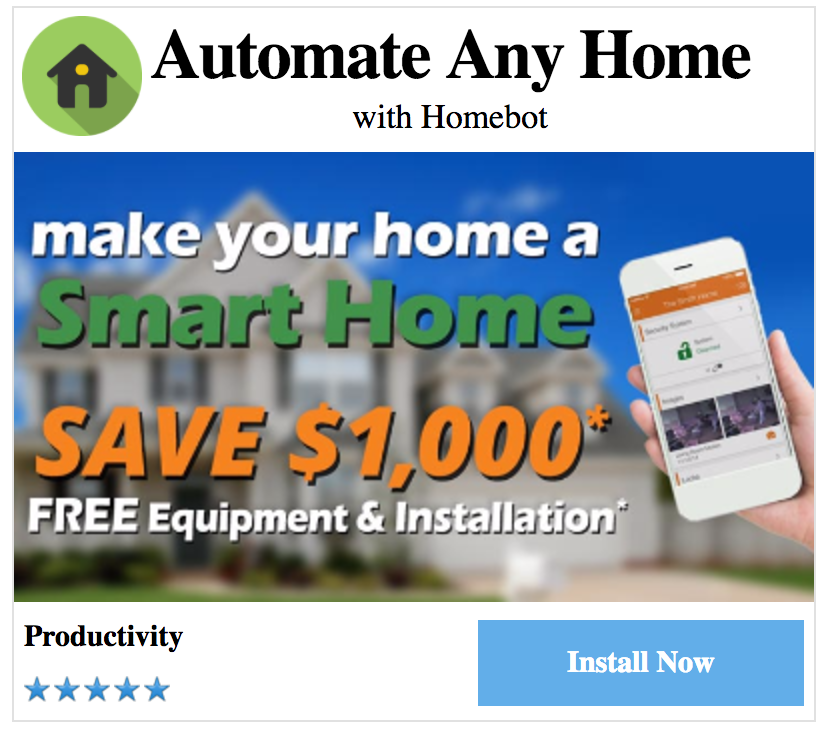
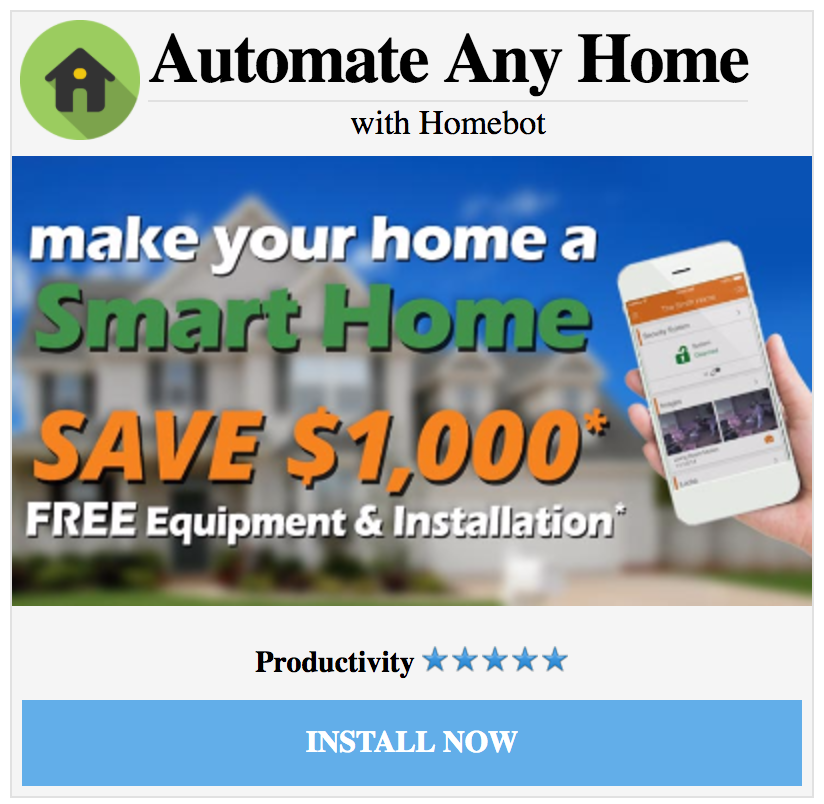
tweaked ad selection styles

diff --git a/part3/deliverables/css/choose_an_ad.css b/part3/deliverables/css/choose_an_ad.css
@@ -16,6 +16,7 @@ h3{
   display: inline-block;
   background-color: black;
   position: relative;
+  height: 300px;
 }
 #ad-container-1{
   margin-right: 10%;
@@ -35,6 +36,9 @@ h3{
 .ad-container img{
   max-width: 100%;
   opacity: 0.4;
+  width: 100%;
+  height: 100%;
+  object-fit: fill;
 }
 .ad-container:hover img{
   opacity: 1;
